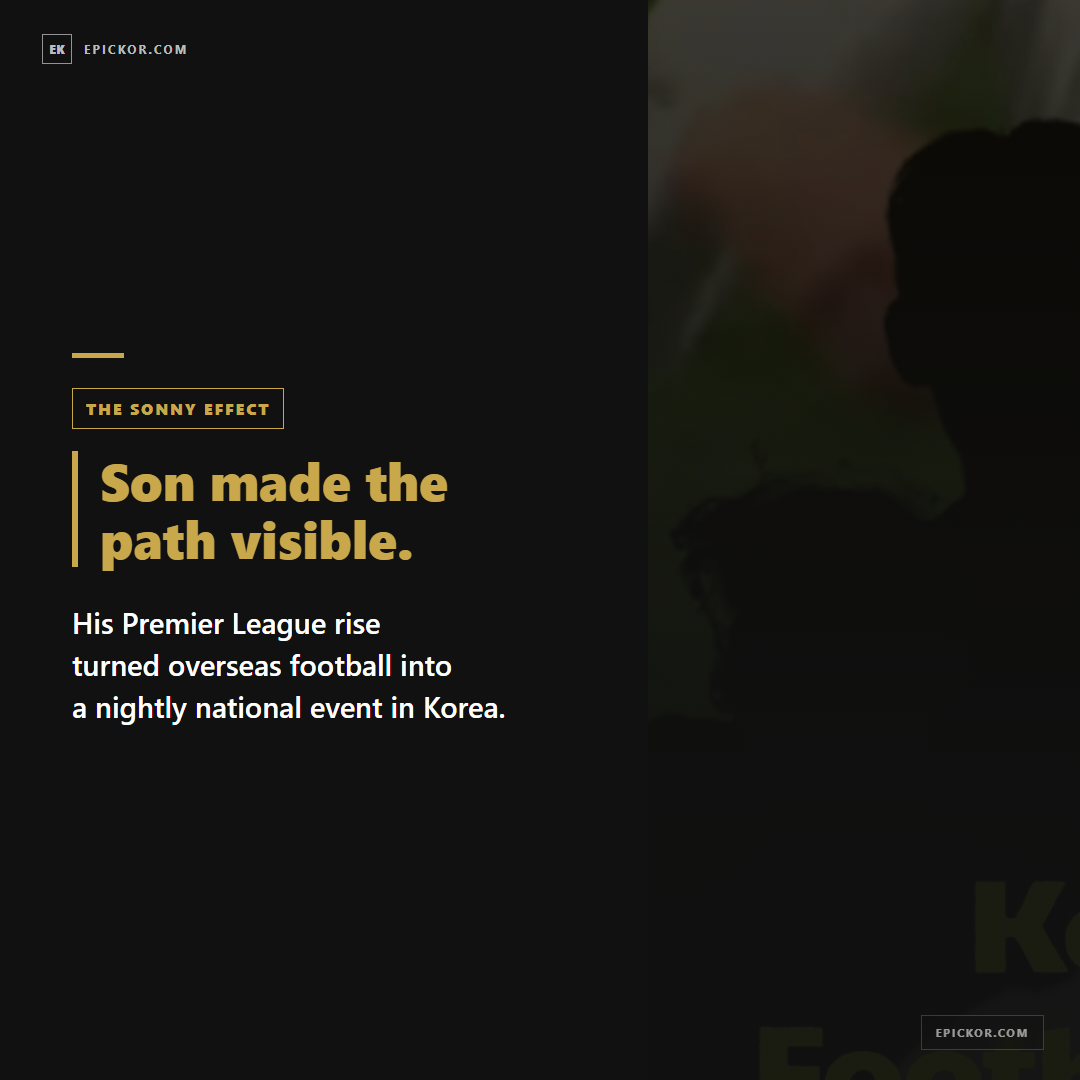
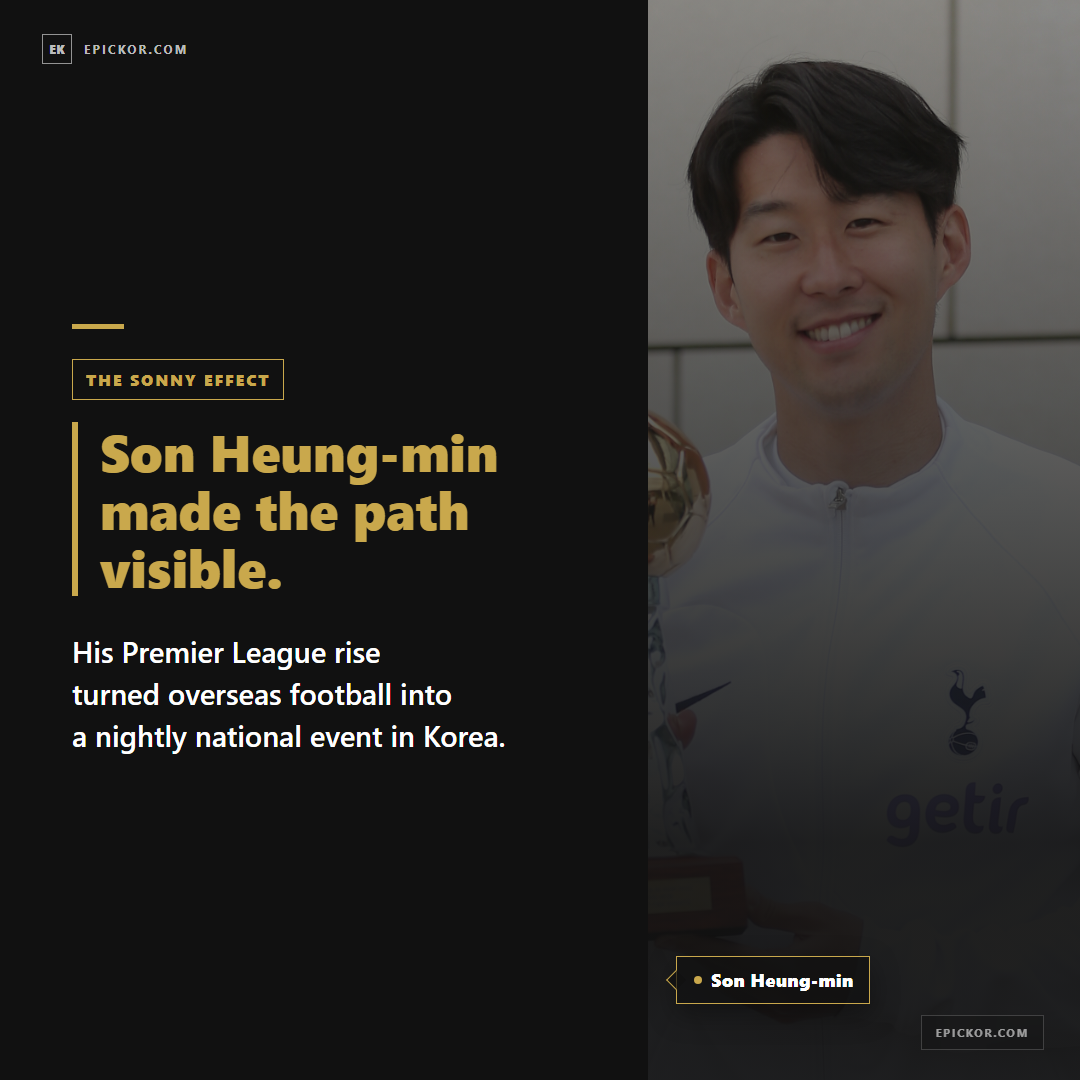
Refine Korean football card news visuals

diff --git a/.claude/skills/cardnews/scripts/html-to-png.py b/.claude/skills/cardnews/scripts/html-to-png.py
@@ -45,6 +45,7 @@ def parse_script(script_path):
             'image_opacity': '',
             'image_zoom': '1',
             'image_tone': '',
+            'image_label': '',
             'kicker': '',
             'main_text': '',
             'sub_text': '',
@@ -68,6 +69,8 @@ def parse_script(script_path):
                 card['image_zoom'] = line.split(':', 1)[1].strip()
             elif line.startswith('image_tone:'):
                 card['image_tone'] = line.split(':', 1)[1].strip()
+            elif line.startswith('image_label:'):
+                card['image_label'] = line.split(':', 1)[1].strip()
             elif line.startswith('kicker:'):
                 card['kicker'] = line.split(':', 1)[1].strip()
             elif line.startswith('**Main:**'):
@@ -214,6 +217,39 @@ def kicker_html(card, pc):
     '''
 
 
+def image_label_html(card, pc, side='left'):
+    label = (card.get('image_label') or '').strip()
+    if not label:
+        return ''
+    anchor = 'left:28px;' if side == 'left' else 'right:28px;'
+    notch_anchor = 'left:-8px;' if side == 'left' else 'right:-8px;'
+    notch_rotate = '45deg'
+    return f'''
+      <div style="
+        position:absolute;bottom:76px;{anchor}z-index:12;
+        display:inline-flex;align-items:center;gap:9px;
+        padding:11px 15px 11px 17px;
+        background:rgba(17,17,17,0.72);
+        border:1px solid {pc};
+        color:#FFFFFF;font-size:18px;font-weight:900;
+        letter-spacing:0.02em;text-transform:none;
+        box-shadow:0 10px 28px rgba(0,0,0,0.34);
+      ">
+        <span style="
+          position:absolute;top:50%;{notch_anchor}
+          width:14px;height:14px;background:rgba(17,17,17,0.72);
+          border-left:1px solid {pc};border-bottom:1px solid {pc};
+          transform:translateY(-50%) rotate({notch_rotate});
+        "></span>
+        <span style="
+          width:8px;height:8px;border-radius:50%;
+          background:{pc};display:inline-block;z-index:2;
+        "></span>
+        <span style="position:relative;z-index:2;">{label}</span>
+      </div>
+    '''
+
+
 def build_type_a(card):
     pc = point_color(card)
     main = to_html_text(card['main_text'])
@@ -339,6 +375,7 @@ def build_type_c(card):
       background:linear-gradient(180deg,#1a1200 0%,#0d0d0d 100%);
     ">
       {visual}
+      {image_label_html(card, pc, 'left')}
     </div>
   </div>
   {WATERMARK_HTML}'''
@@ -369,6 +406,7 @@ def build_type_e(card):
       background:linear-gradient(180deg,#1a1200 0%,#0d0d0d 100%);
     ">
       {visual}
+      {image_label_html(card, pc, 'right')}
     </div>
 
     <div style="

diff --git a/public/assets/cardnews/132/script.md b/public/assets/cardnews/132/script.md
@@ -9,8 +9,8 @@ layout: A
 point_color: Gold
 image_keyword: Korean footballers Europe stadium tunnel
 kicker: KOREAN FOOTBALL ABROAD
-image: /assets/images/posts/132/cardnews-132-stadium-tunnel.png
-image_opacity: 0.72
+image: /assets/images/posts/132/cardnews-132-global-taegeuk-cover.png
+image_opacity: 0.76
 image_zoom: 1.00
 image_position: center center
 
@@ -24,12 +24,13 @@ layout: C
 point_color: Gold
 image_keyword: Son Heung-min Korean football Europe
 kicker: THE SONNY EFFECT
-image: /assets/images/posts/132/132_01.jpg
-image_opacity: 0.62
-image_zoom: 1.85
-image_position: left top
+image: /assets/images/posts/132/son-heung-min-commons-2023.jpg
+image_label: Son Heung-min
+image_opacity: 0.78
+image_zoom: 1.00
+image_position: center center
 
-**Main:** Son made the\npath visible.
+**Main:** Son Heung-min\nmade the path\nvisible.
 **Sub:** His Premier League rise\nturned overseas football into\na nightly national event in Korea.
 
 ---
@@ -40,12 +41,13 @@ point_color: Teal
 image_keyword: Korean football prospect Europe
 kicker: NEXT WAVE
 image: /assets/images/posts/132/132_02.jpg
+image_label: Kim Ji-soo
 image_opacity: 0.72
 image_zoom: 1.34
 image_position: center top
 
-**Main:** But this is not\nonly one icon.
-**Sub:** Korean players are showing up\nas defenders, scorers,\nand future building blocks.
+**Main:** The next wave\nneeds names.
+**Sub:** Kim Min-jae and Lee Kang-in\nmade the map wider.\nNow younger players have a route.
 
 ---
 
@@ -55,12 +57,13 @@ point_color: Gold
 image_keyword: Korean footballer European club
 kicker: EUROPEAN CLUB VALUE
 image: /assets/images/posts/132/132_03.jpg
+image_label: Lee Jae-sung
 image_opacity: 0.72
 image_zoom: 1.36
 image_position: center top
 
-**Main:** The value is\nrange.
-**Sub:** Pace matters.\nSo do strength, discipline,\nfinishing, and game intelligence.
+**Main:** Europe values\nmore than hype.
+**Sub:** Work rate, positioning,\nfinishing, and decision-making\nare part of the Korean appeal.
 
 ---
 
@@ -70,11 +73,12 @@ point_color: Teal
 image_keyword: Korean footballer striker Europe
 kicker: BEYOND ONE LEAGUE
 image: /assets/images/posts/132/132_04.jpg
+image_label: Oh Hyeon-gyu
 image_opacity: 0.72
 image_zoom: 1.32
 image_position: center top
 
-**Main:** Europe is bigger\nthan one club.
+**Main:** The story moves\nacross leagues.
 **Sub:** England, Germany,\nFrance, Belgium, and beyond\nall became part of the Korean story.
 
 ---

diff --git a/HANDOFF.md b/HANDOFF.md
@@ -1,5 +1,29 @@
 # HANDOFF - EpicKor Agent Teams v2
 
+## Latest Update - 2026-05-03 Card News 132 Visual/Name Correction
+
+- Task: Apply user review feedback to Card News 132 after initial save.
+- User feedback:
+  - The carousel became too abstract and removed too many player names from the article/source context.
+  - Card 02 did not show Son Heung-min's face clearly.
+  - Card 01 would be stronger with a natural globe and Taegeukgi design element.
+  - Player photos should have small name-tag labels so viewers can tell who is being shown without overloading the main copy.
+- Corrections:
+  - Added renderer support for `image_label:` and a small tag-style overlay on vertical image panels.
+  - Replaced Card 01 cover with `cardnews-132-global-taegeuk-cover.png`, a dark stadium/tunnel image with subtle globe and Taegeukgi elements.
+  - Replaced Card 02 image with `son-heung-min-commons-2023.jpg` so Son Heung-min's face is clearly visible.
+  - Added player/source-context tags:
+    - Card 02: `Son Heung-min`
+    - Card 03: `Kim Ji-soo`
+    - Card 04: `Lee Jae-sung`
+    - Card 05: `Oh Hyeon-gyu`
+  - Revised Card 03 copy to explicitly mention Kim Min-jae and Lee Kang-in from the article context.
+- Attribution:
+  - Added `public/assets/images/posts/132/ATTRIBUTION.md` for the Wikimedia Commons Son Heung-min image.
+- Renderer/Reviewer role:
+  - `python .claude/skills/cardnews/scripts/html-to-png.py --slug 132` generated 7/7 PNGs.
+  - Copied updated rendered PNGs into `public/assets/cardnews/132/`.
+
 ## Latest Update - 2026-05-03 Card News 132 Final Save
 
 - Task: Continue Instagram revival card-news production with priority 7 from the 30-item backlog.

diff --git a/public/assets/images/posts/132/ATTRIBUTION.md b/public/assets/images/posts/132/ATTRIBUTION.md
@@ -1,0 +1,8 @@
+# Image Attribution - Post 132 Card News
+
+- `son-heung-min-commons-2023.jpg`
+  - Source: Wikimedia Commons, `Best Footballer in Asia 2022 Son Heung-min (cropped).jpg`
+  - Author: Ujishadow
+  - License: Creative Commons Attribution-ShareAlike 4.0 International
+  - URL: https://commons.wikimedia.org/wiki/File:Best_Footballer_in_Asia_2022_Son_Heung-min_(cropped).jpg
+
